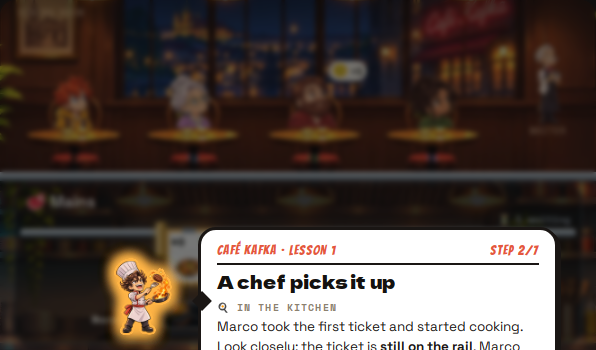
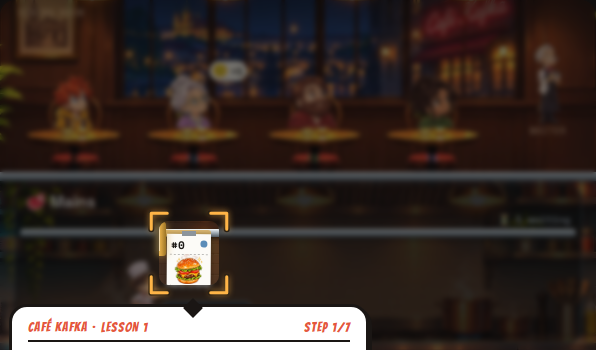
Lesson highlights: corner brackets instead of a filled box
Non-character targets (tickets, clips, rails, tables) get four ink-and-
amber corner brackets that pulse gently, instead of a glowing filled box
painted over the art.

Changed region(s): [[0.0, 0.6, 0.9362, 1.0], [0.5436, 0.1714, 0.6342, 0.2571], [0.3322, 0.1714, 0.4228, 0.2571]]

diff --git a/index.html b/index.html
@@ -2210,10 +2210,15 @@ function drawFocus() {
       ctx.shadowBlur = 0; ctx.drawImage(b.im, b.x, b.y, b.w, b.h); ctx.restore();
       continue;
     }
-    ctx.save();
-    ctx.shadowColor = `rgba(${col},${.9 * pulse})`; ctx.shadowBlur = 26 * pulse;
-    ctx.fillStyle = `rgba(${col},${.12 * pulse})`; ctx.strokeStyle = `rgb(${col})`; ctx.lineWidth = 3;
-    rr(a.x - w / 2 - p, a.y - p, w + 2 * p, h + 2 * p, 9); ctx.fill(); ctx.stroke();
+    // corner brackets: a focus frame that marks the target without painting over it
+    const gap = p + 3 + (RM ? 0 : 2.5 * (1 - pulse) * 4), x0 = a.x - w / 2 - gap, y0 = a.y - gap, x1 = a.x + w / 2 + gap, y1 = a.y + h + gap;
+    const L = Math.max(8, Math.min(16, Math.min(w, h) * .32));
+    const corners = [[x0, y0, 1, 1], [x1, y0, -1, 1], [x0, y1, 1, -1], [x1, y1, -1, -1]];
+    ctx.save(); ctx.lineCap = 'round'; ctx.lineJoin = 'round';
+    for (const [lw, st, glow] of [[6, '#14110F', 0], [3, `rgb(${col})`, 12 * pulse]]) {
+      ctx.lineWidth = lw; ctx.strokeStyle = st; ctx.shadowColor = `rgba(${col},.8)`; ctx.shadowBlur = glow;
+      for (const [cx, cy, sx, sy] of corners) { ctx.beginPath(); ctx.moveTo(cx + sx * L, cy); ctx.lineTo(cx, cy); ctx.lineTo(cx, cy + sy * L); ctx.stroke() }
+    }
     ctx.restore();
   }
 }

diff --git a/art/tools/focusshot.py b/art/tools/focusshot.py
@@ -12,7 +12,7 @@ with sync_playwright() as p:
     for i in range(40):
         pg.wait_for_timeout(500)
         t = pg.evaluate("S.phase === 'explain' && (STEP().title || '')")
-        if t == 'A chef picks it up': break
+        if t == 'An order comes in': break
         nxt = pg.locator(".lesson:not([hidden]) .btn.gold")
         if t and nxt.count(): nxt.first.click()
     pg.wait_for_timeout(700)
